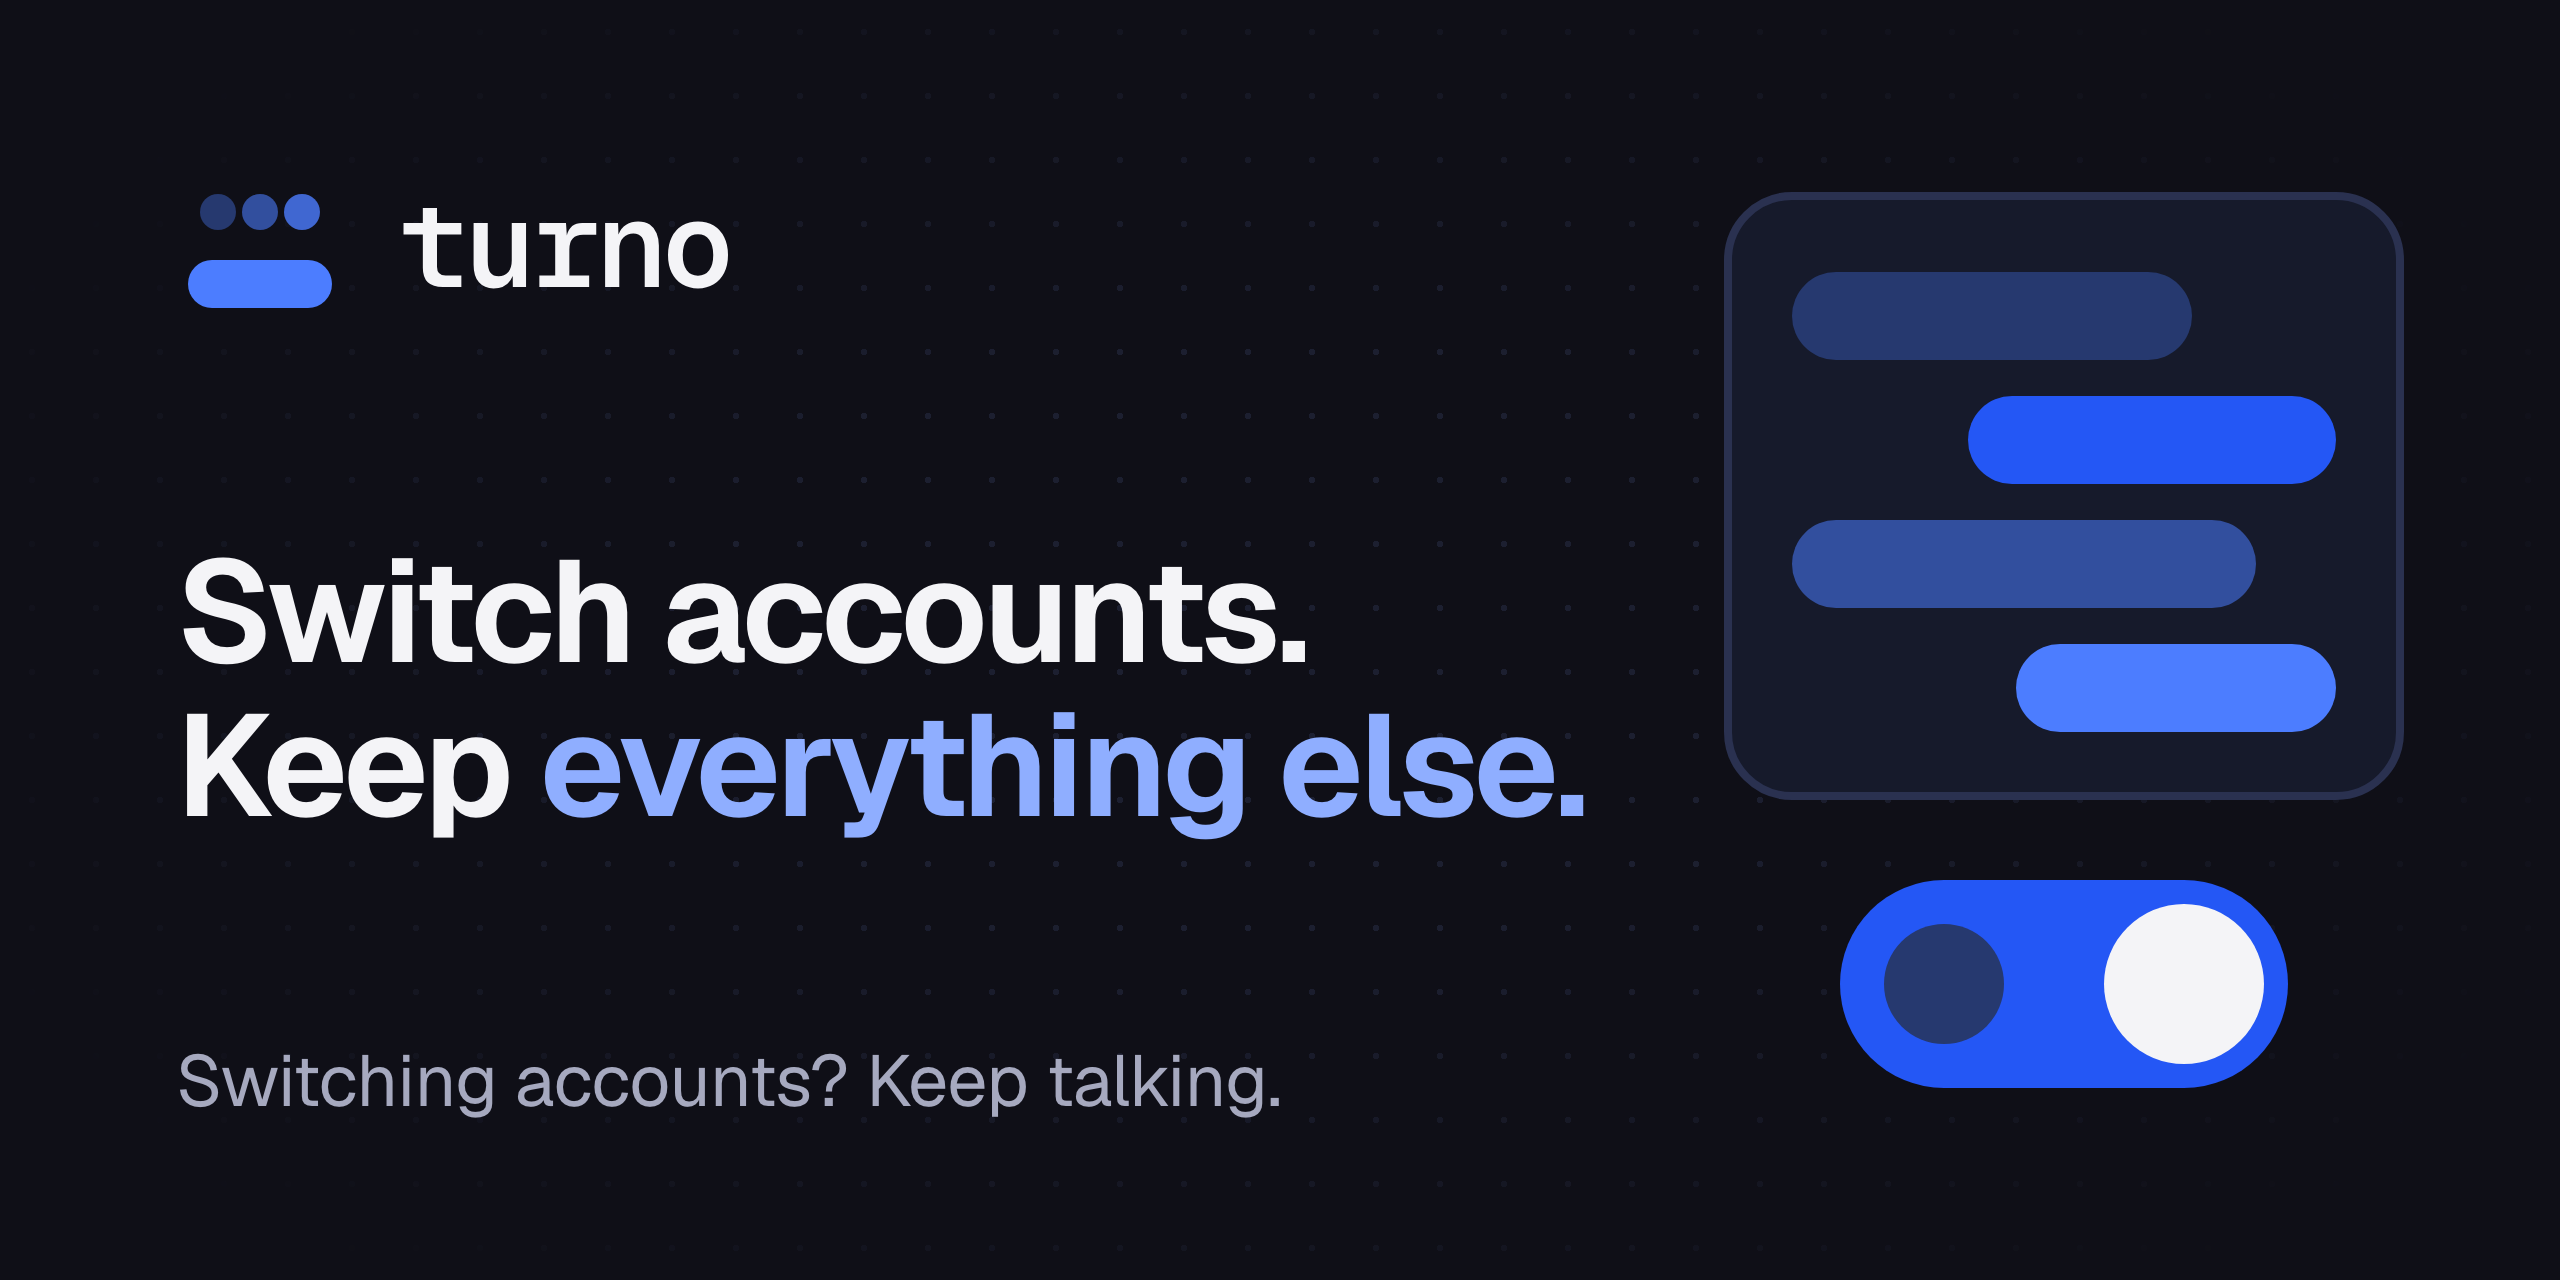
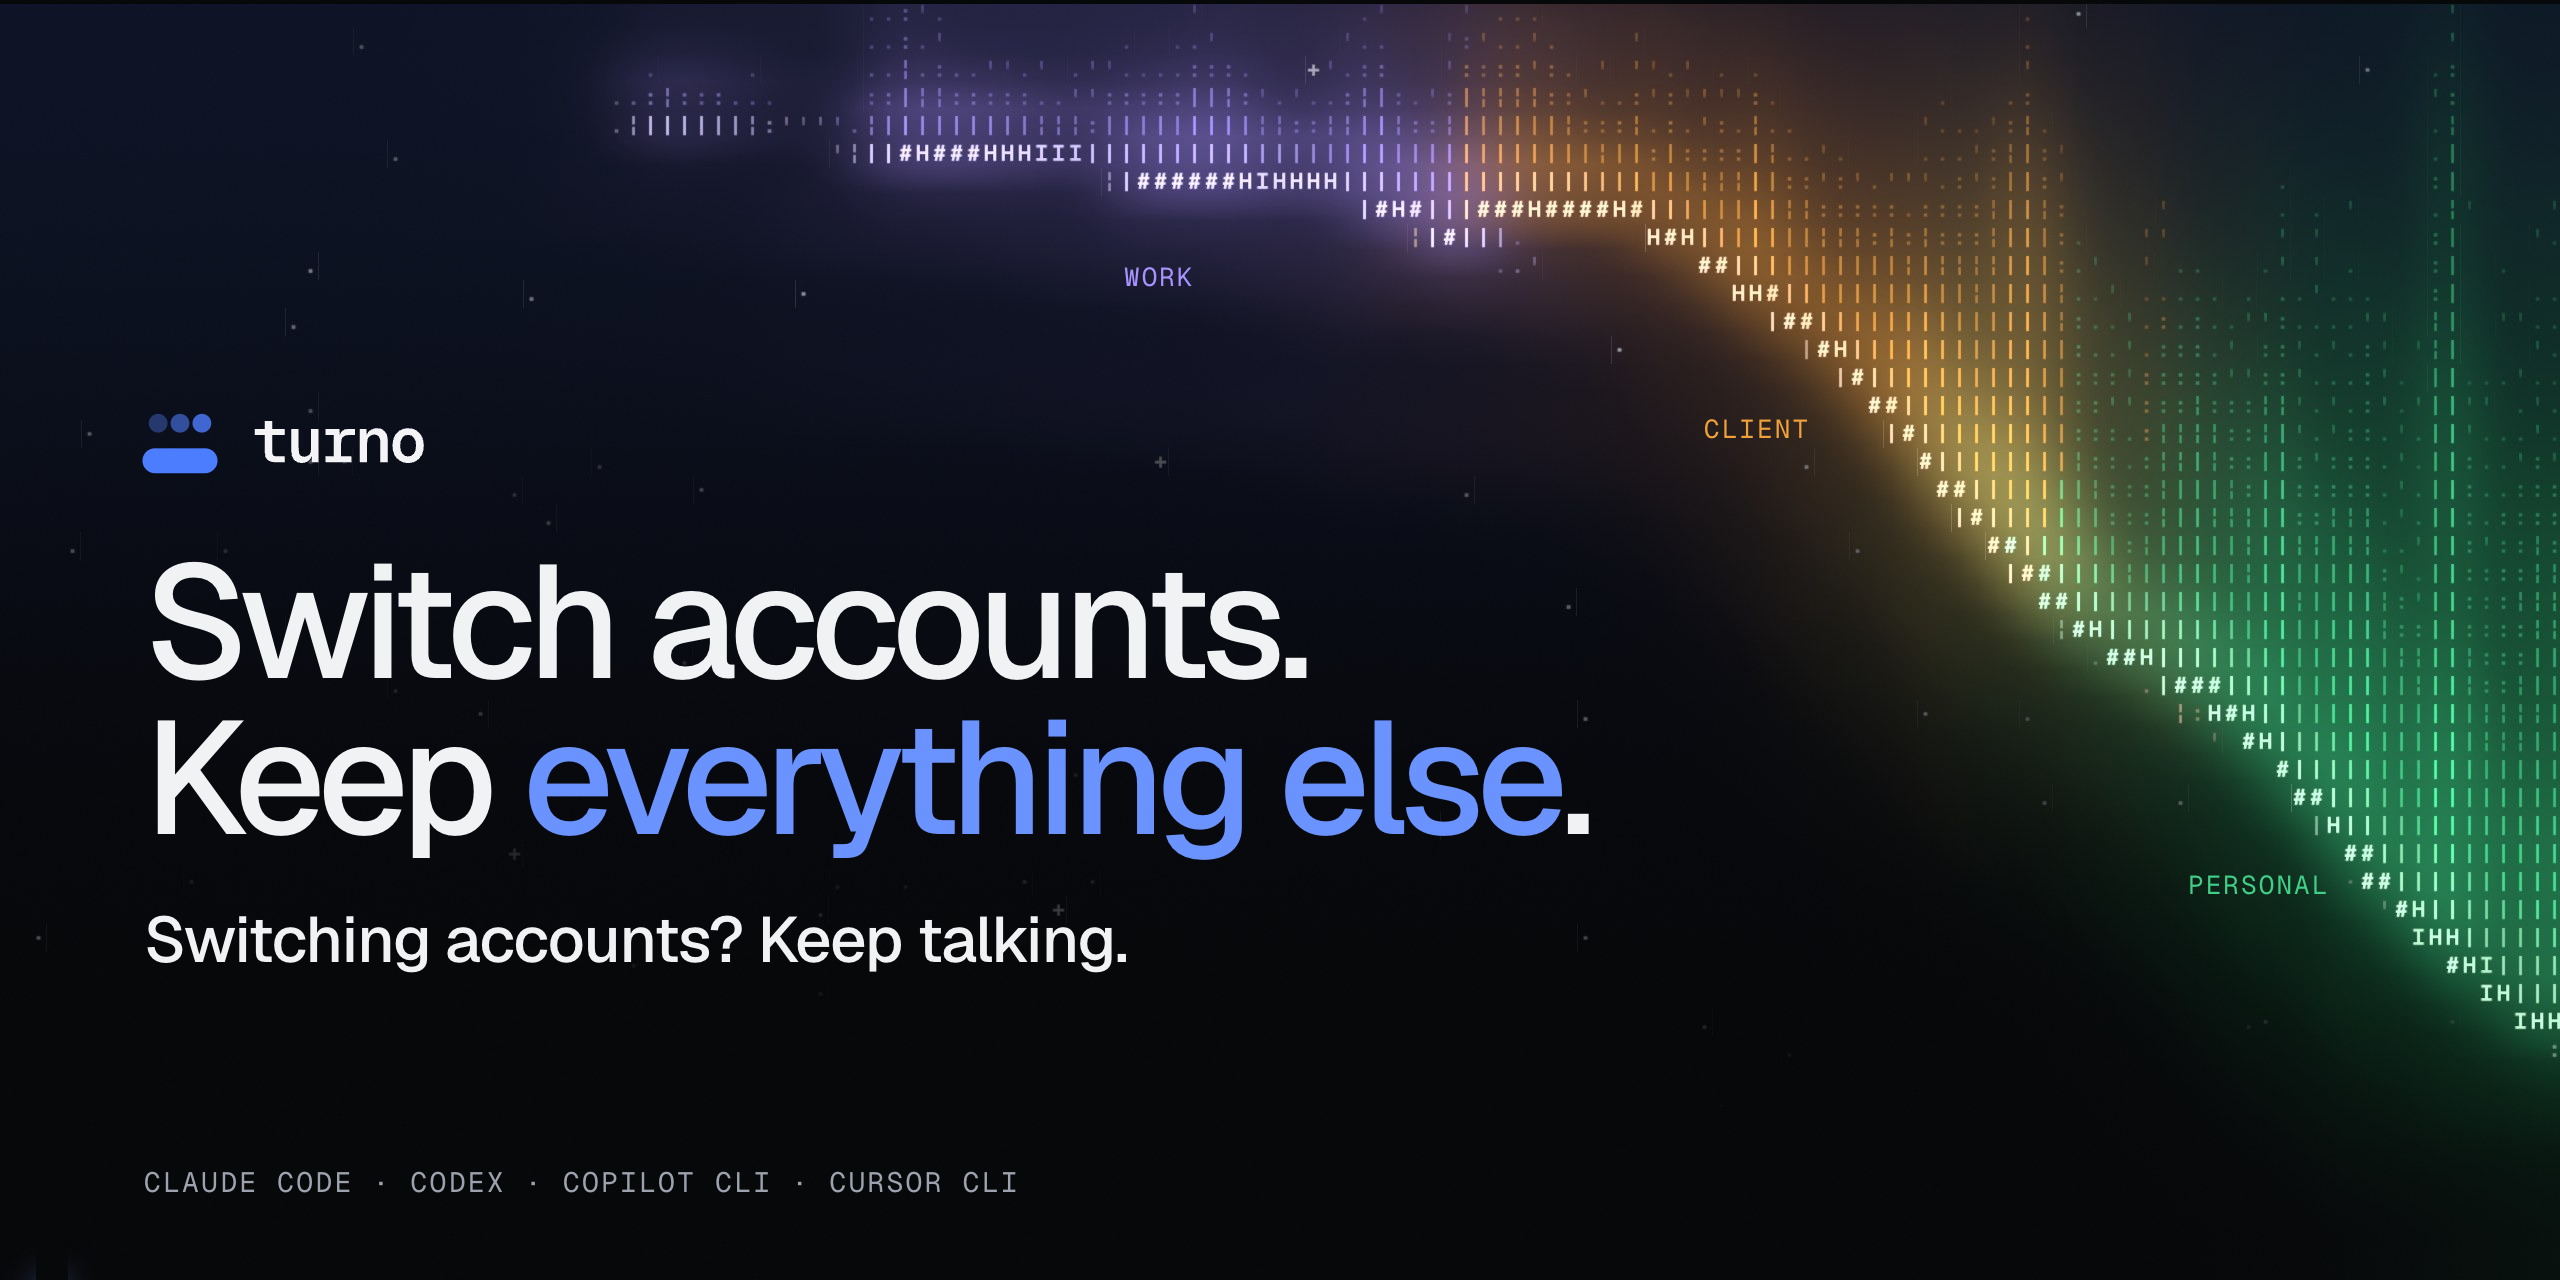
docs: social preview on the landing page's hero (#79)
The social preview uses the landing page's hero: the three curtains of glyphs captured without the thread, with the logo, the headline, the hook and the four agents.

diff --git a/docs/assets/social-preview.html b/docs/assets/social-preview.html
@@ -1,30 +1,29 @@
 <!doctype html>
 <!-- Social preview (Settings > Social preview). Render at 1280x640 with a device scale of 2
-     (docs/social-preview.md): one conversation that keeps going while the switch below it
-     moves from one account to the other. -->
+     (docs/social-preview.md). The background is the landing page's hero (turno.wimo.dev): three
+     curtains of glyphs, one per account, captured without the thread. -->
 <html><head><meta charset="utf-8">
-<link rel="stylesheet" href="https://fonts.googleapis.com/css2?family=Geist:wght@400..700&display=block">
+<link rel="stylesheet" href="https://fonts.googleapis.com/css2?family=Geist:wght@400..700&family=Geist+Mono:wght@400;500&display=block">
 <style>
-  :root{--bg:#0F0F17;--fg:#F4F4F7;--muted:#A6A9BF;--accent2:#8FAEFF}
-  html,body{margin:0;width:1280px;height:640px;overflow:hidden;background:var(--bg);color:var(--fg);font-family:Geist,sans-serif;-webkit-font-smoothing:antialiased}
-  .dots{position:absolute;inset:0;background-image:radial-gradient(circle,#1C1F30 1.6px,transparent 1.7px);background-size:32px 32px;-webkit-mask-image:radial-gradient(ellipse 70% 80% at 50% 50%,#000 30%,transparent 80%)}
-  .l{position:absolute;left:88px;top:76px;bottom:76px;width:760px;display:flex;flex-direction:column;justify-content:space-between}
-  .l img{height:96px;align-self:flex-start;margin-left:-6px}
-  h1{margin:0;font-size:72px;line-height:1.06;font-weight:650;letter-spacing:-2px}
-  h1 em{font-style:normal;color:var(--accent2)}
-  .sub{font-size:36px;color:var(--muted);letter-spacing:-.3px}
-  svg.d{position:absolute;right:78px;top:96px;width:340px;height:448px}
-</style></head><body><div class="dots"></div>
-<div class="l"><img src="logo-dark.svg" alt="turno"><h1>Switch accounts.<br>Keep <em>everything else.</em></h1><div class="sub">Switching accounts? Keep talking.</div></div>
-<svg class="d" viewBox="0 0 340 448" aria-hidden="true">
-  <!-- the conversation -->
-  <rect x="2" y="2" width="336" height="300" rx="32" fill="#161A2B" stroke="#2A3150" stroke-width="4"/>
-  <rect x="34" y="40" width="200" height="44" rx="22" fill="#26396F"/>
-  <rect x="122" y="102" width="184" height="44" rx="22" fill="#2457F5"/>
-  <rect x="34" y="164" width="232" height="44" rx="22" fill="#324F9E"/>
-  <rect x="146" y="226" width="160" height="44" rx="22" fill="#4C7DFF"/>
-  <!-- the account switch: off on the left (one account), on the right (the other) -->
-  <rect x="58" y="344" width="224" height="104" rx="52" fill="#2457F5"/>
-  <circle cx="110" cy="396" r="30" fill="#26396F"/>
-  <circle cx="230" cy="396" r="40" fill="#F4F4F7"/>
-</svg></body></html>
+  :root{--paper:#07080A;--ink:#F1F2F4;--dim:#9DA3AE;--keep:#6A93FF;--work:#A892FF;--third:#F0A13A;--personal:#3FCF87}
+  html,body{margin:0;width:1280px;height:640px;overflow:hidden;background:var(--paper);color:var(--ink);font-family:Geist,sans-serif;-webkit-font-smoothing:antialiased}
+  .sky{position:absolute;inset:0;width:1280px;height:640px}
+  /* Hides the hero's side rail and the edge of the site header the capture carries. */
+  .mask-top{position:absolute;left:0;top:0;width:1280px;height:2px;background:var(--paper)}
+  .mask-rail{position:absolute;left:18px;top:500px;width:16px;height:140px;background:var(--paper)}
+  .acct{position:absolute;padding:2px 6px;font-family:"Geist Mono",monospace;font-size:13px;letter-spacing:.08em}
+  .copy{position:absolute;left:72px;top:196px;width:820px;display:flex;flex-direction:column}
+  .copy img{width:150px;height:50px;margin:0 0 26px -7px}
+  h1{margin:0;font-size:80px;font-weight:500;line-height:.98;letter-spacing:-.045em}
+  h1 em{font-style:normal;color:var(--keep)}
+  .hook{margin:22px 0 0;font-size:32px;font-weight:500;line-height:1.2;letter-spacing:-.02em}
+  .agents{position:absolute;left:72px;bottom:40px;margin:0;font-family:"Geist Mono",monospace;font-size:14px;letter-spacing:.08em;text-transform:uppercase;color:var(--dim)}
+</style></head><body>
+<img class="sky" src="social-preview-aurora.jpg" alt="">
+<div class="mask-top"></div><div class="mask-rail"></div>
+<span class="acct" style="left:556px;top:128px;color:var(--work)">WORK</span>
+<span class="acct" style="left:846px;top:204px;color:var(--third)">CLIENT</span>
+<span class="acct" style="left:1088px;top:432px;color:var(--personal)">PERSONAL</span>
+<div class="copy"><img src="logo-dark.svg" alt="turno"><h1>Switch accounts.<br>Keep <em>everything else</em>.</h1><p class="hook">Switching accounts? Keep talking.</p></div>
+<p class="agents">Claude Code · Codex · Copilot CLI · Cursor CLI</p>
+</body></html>

diff --git a/docs/social-preview.md b/docs/social-preview.md
@@ -4,7 +4,15 @@
 `docs/assets/social-preview.html` is its source, rendered at 1280x640 with a device scale of 2
 (a 2560x1280 PNG) with the Chromium of `patchright-core`, the engine `packages/browser` already
 depends on: open the HTML in a 1280x640 page with `deviceScaleFactor: 2`, wait for the fonts and
-take a screenshot.
+take a screenshot. GitHub takes images under 1 MB, so the PNG is saved again with the strongest
+lossless compression; quantizing it to 256 colors bands the glow of the curtains.
+
+The background, `docs/assets/social-preview-aurora.jpg`, is the landing page's hero
+(turno.wimo.dev) captured at 1280x640 with a device scale of 2: a 1280x696 window, the header
+above, the hero's text hidden, and the thread and its traveling message turned off (the
+`uThreadFade` and `uPulse` uniforms set to zero), so only the three curtains of glyphs remain.
+The account labels are placed by hand at each curtain's hem; capture again and move them if the
+hero's composition changes.
 `docs/assets/avatar.svg` and `avatar.png` are the avatar of the `wimo-dev` organization: the
 mark on a full-bleed square, because GitHub rounds organization avatars itself.
 
@@ -27,10 +35,12 @@ rendered and compared at those sizes (name only, headline with diagram, benchmar
 install command, name with a stat line). The headline with a diagram won: the name and the
 headline stay readable at 360 px, and the diagram explains the product without words.
 
-The card now carries the narrative the README opens with: the headline "Switch accounts. Keep
-everything else." and the hook "Switching accounts? Keep talking." The diagram is one
-conversation (the bubbles) above a switch that has moved from one account to the other, drawn in
-the logo's blues with the cobalt `#2457F5` on the switch. The first version showed four agent
-sessions joining one `mcpd`; the gateway is now part of how turno works, not what the card says.
+The card carries the narrative the README opens with: the headline "Switch accounts. Keep
+everything else." and the hook "Switching accounts? Keep talking." Since the landing page got
+its own look, the card uses it so the repository and the site read as one brand: paper and ink,
+Geist at weight 500 with tight tracking, the landing's three curtains in the account tones (work
+violet, client amber, personal green) as the picture, and blue only for what stays. The first
+version showed four agent sessions joining one `mcpd`, and the second a conversation above an
+account switch; the gateway is part of how turno works, not what the card says.
 Memory numbers stay out of the image; they live in the README's Benchmark section and
 BENCHMARKS.md.
